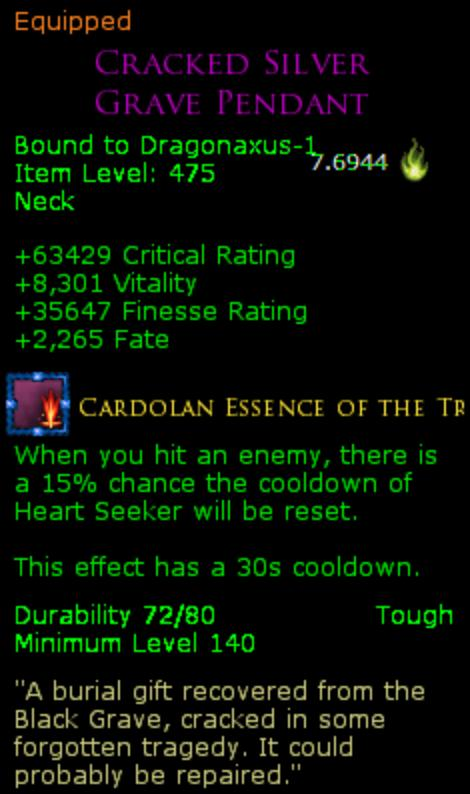
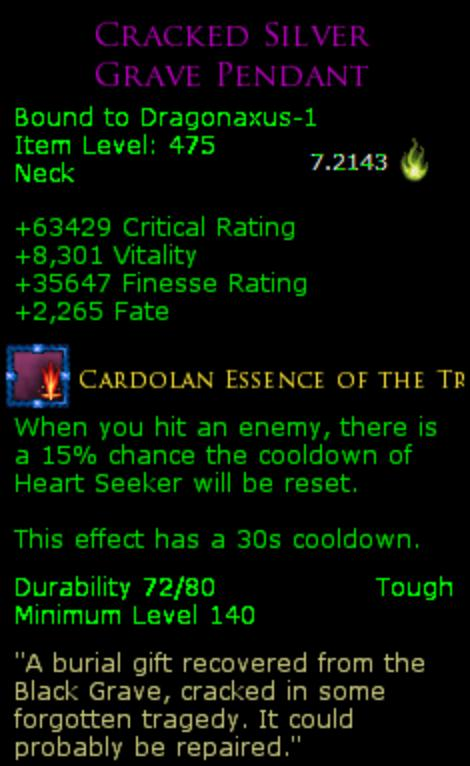
Cleaned up Console Outputs

diff --git a/TooltipGathering/Software/Classes/Utils/Tkinter.py b/TooltipGathering/Software/Classes/Utils/Tkinter.py
@@ -91,13 +91,10 @@ class EssenceValueDisplay:
             end = values[1][1]
             position = [start[0] + ((end[0] - start[0]) / 1.35), start[1] + 80]
             
-            print(item)
-            
             self.add_essence_value_display(values[0], position)
         self.needs_canvas_update = False
 
     def check_for_update(self):
-        print(self.items, self.old_items)
         for item in self.items:
             if item not in self.old_items:
                 return True

diff --git a/TooltipGathering/Software/Classes/Tooltips/ItemTooltip.py b/TooltipGathering/Software/Classes/Tooltips/ItemTooltip.py
@@ -111,8 +111,6 @@ Essence Value: {self.essence_value}
             else:
                 essence_value = calculate_morale_essence_value.get(CURRENT_CLASS)
 
-            # ToDo: Weights, User Input
-            print(stat_name)
             total_essence_slices += round(amount / essence_value * get_essence_weight(stat_name), 4)
 
         return round(total_essence_slices + self.essence_slots, 4)

diff --git a/TooltipGathering/Software/Main.py b/TooltipGathering/Software/Main.py
@@ -35,7 +35,6 @@ def main(mode):
                     except Exception as e:
                         print(e)
                 get_window_instance().needs_canvas_update = get_window_instance().check_for_update()
-                print(get_window_instance().needs_canvas_update)
 
     except KeyboardInterrupt:
         print("Exiting...")

diff --git a/TooltipGathering/Software/Classes/TooltipDetector.py b/TooltipGathering/Software/Classes/TooltipDetector.py
@@ -208,7 +208,6 @@ def cover_unwanted_icons(image):
 
     if 255 in equipped_text_borders[5:10, 15:25]:
         image[25:65, 5:40] = 0
-        print('Equipped')
     else:
         image[5:45, 5:40] = 0
 
